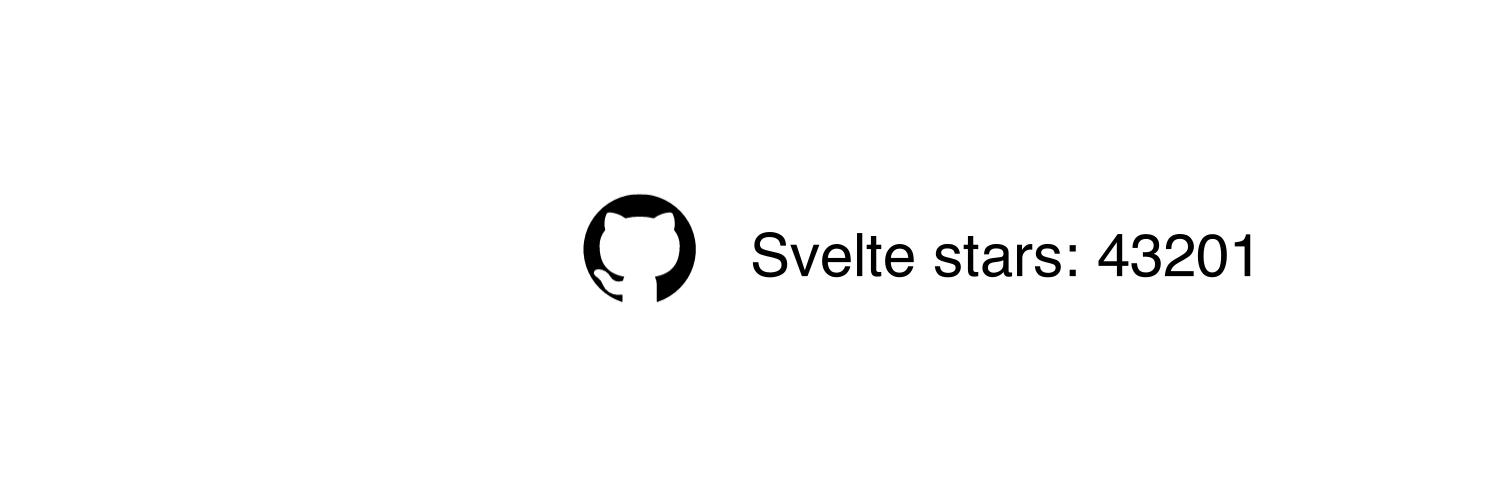
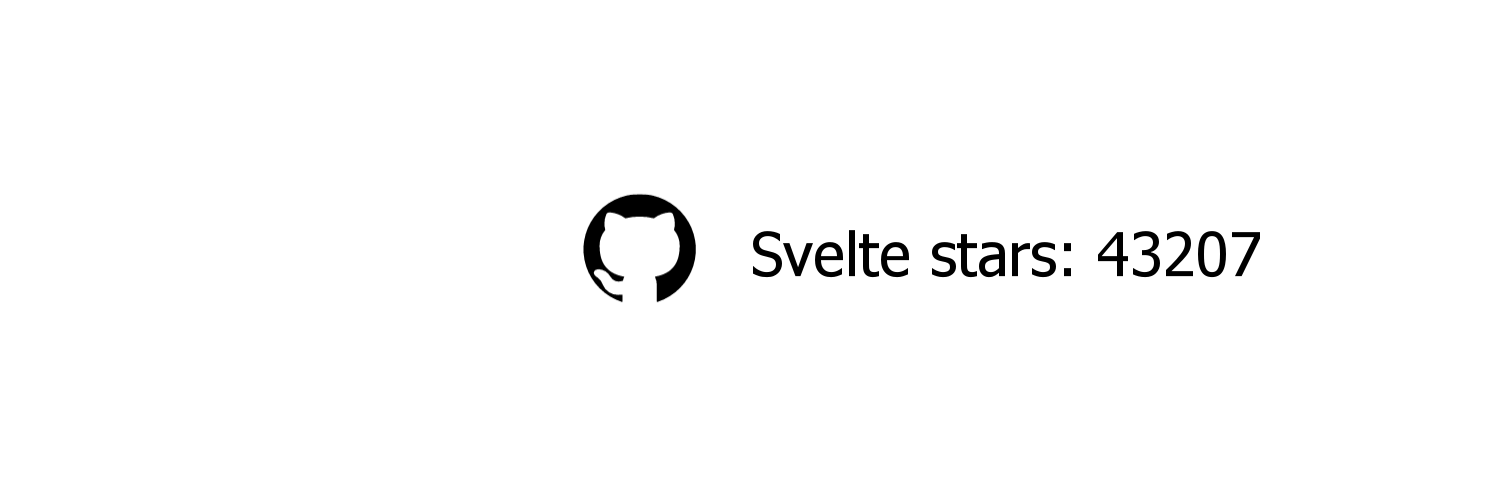
switch httpie to node-fetch

Changed region(s): [[0.4907, 0.4527, 0.8587, 0.5734]]

diff --git a/index.js b/index.js
@@ -1,11 +1,12 @@
-import { send } from "httpie";
-import dotenv from "dotenv";
+const fetch = require('node-fetch');
+
+const dotenv = require('dotenv')
 dotenv.config();
-import Twitter from "twitter-lite";
 
-import { createRequire } from "module";
+const Twitter = require("twitter-lite")
 
-const require = createRequire(import.meta.url);
+
+
 
 const { createCanvas, loadImage } = require("canvas");
 const fs = require("fs");
@@ -16,7 +17,9 @@ const API_SECRET = process.env.API_SECRET;
 const ACCESS_TOKEN = process.env.ACCESS_TOKEN;
 const ACCESS_TOKEN_SECRET = process.env.ACCESS_TOKEN_SECRET;
 
-const timer = 60000
+const second = 1000
+const minute = second * 60
+const timer = 9 * minute
 
 const client = new Twitter({
   subdomain: "api",
@@ -41,13 +44,16 @@ const applyText = (canvas, text) => {
 
 (async function getStars() {
   let starsCount = "";
-  let stars = await send("GET", URL, {
+  let stars = await fetch(URL, {
+    method: "GET",
     headers: {
       "User-Agent": "request",
     },
   });
-  starsCount = stars.data.stargazers_count;
-  console.log(`Stars: ${stars.data.stargazers_count}`);
+  let resp = await stars.json()
+
+  starsCount = resp.stargazers_count;
+  console.log(`Stars: ${resp.stargazers_count}`);
 
   const canvas = createCanvas(1500, 497);
   const ctx = canvas.getContext("2d");
